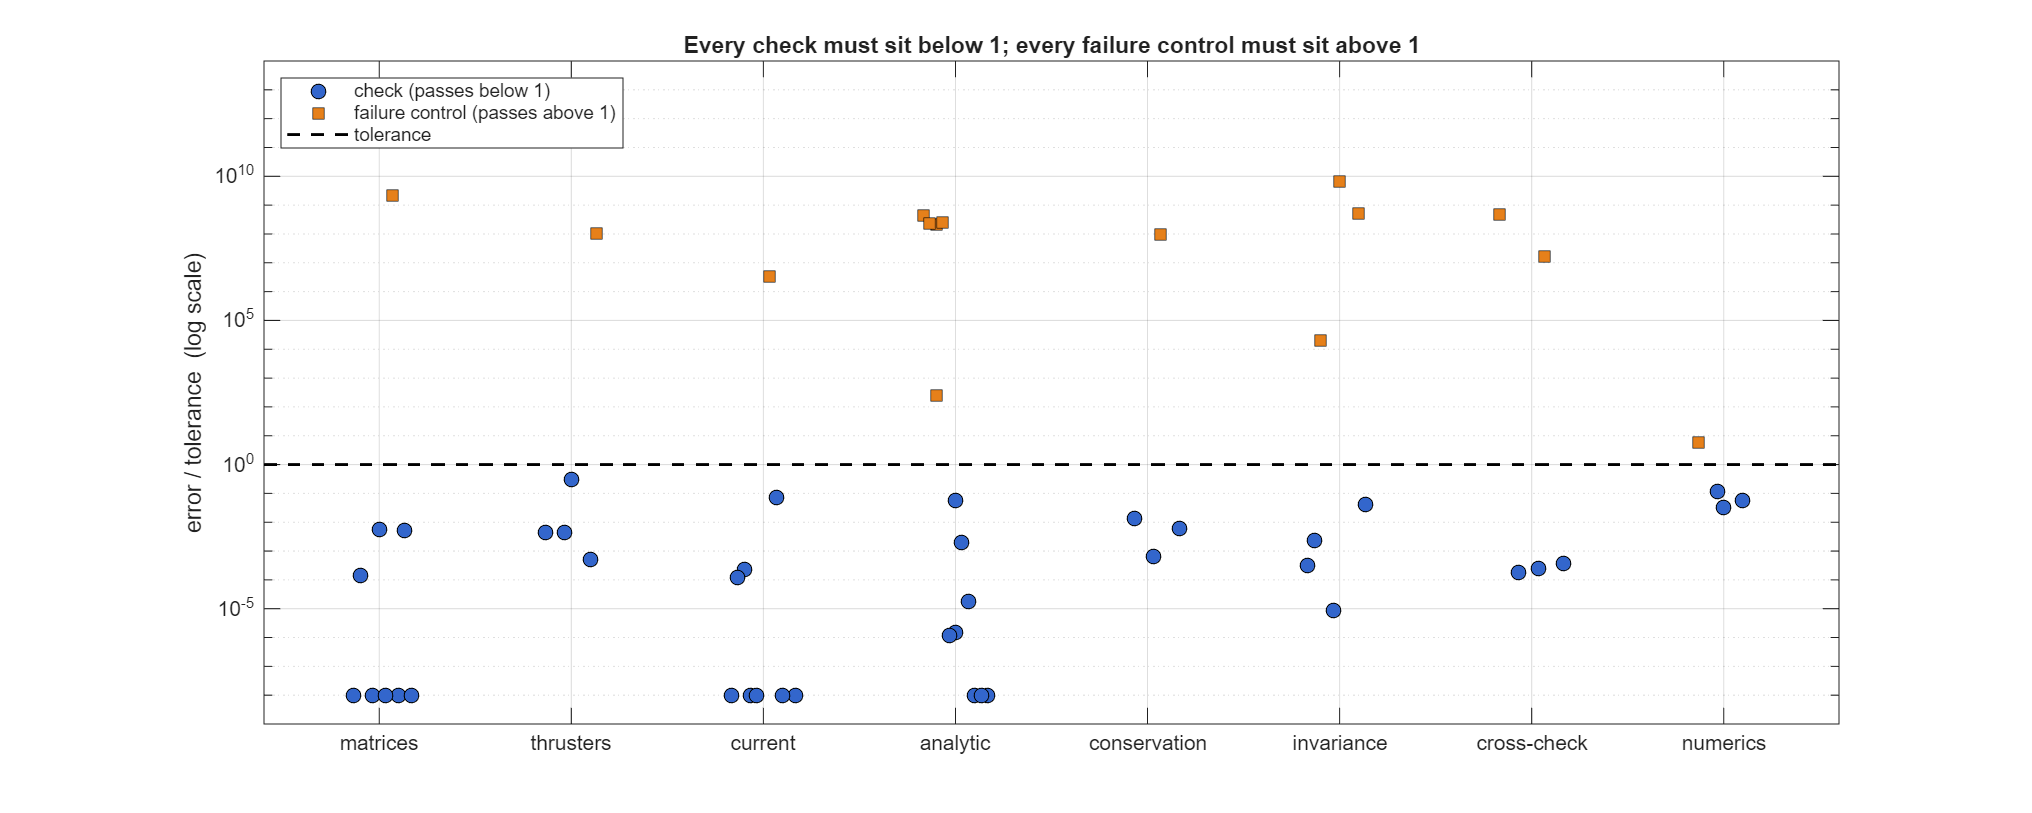
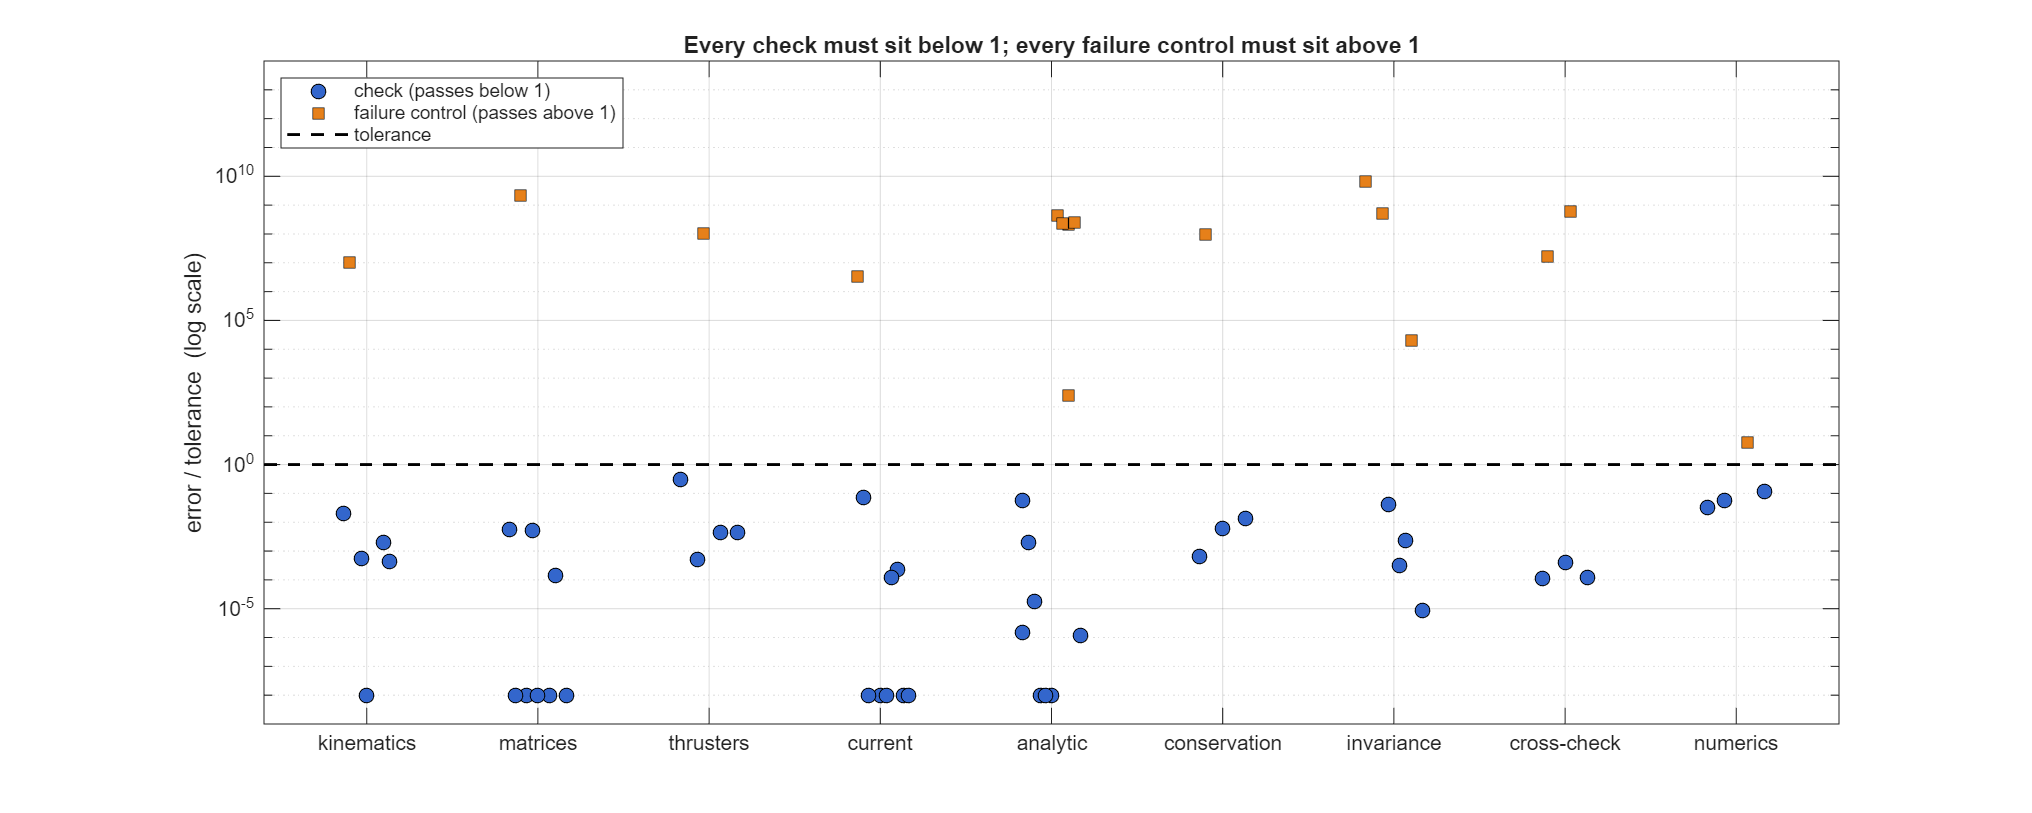
Fix cross-check test gap found by mutation check; record mutation results
The Euler restoring-force mutant escaped because the cross-check ran with B = W. It now runs with net buoyancy. Mutation result: 16 of 18 caught; the two misses are the placeholder thruster geometry and a parameter change.

diff --git a/plant_m/tests/mutation_check.py b/plant_m/tests/mutation_check.py
@@ -1,0 +1,76 @@
+"""Mutation check for plant_m: break the model on purpose in a scratch copy and see whether run_all_tests notices.
+Usage: python mutation_check.py <repo root> <out.txt>   (needs MATLAB; edit MATLAB below if installed elsewhere)
+"""
+import shutil, subprocess, sys
+from pathlib import Path
+
+repo, outp = Path(sys.argv[1]), Path(sys.argv[2])
+import tempfile; work = Path(tempfile.gettempdir()) / "plant_mutation"
+MATLAB = r"C:\Program Files\MATLAB\R2025b\bin\matlab.exe"
+
+MUT = [
+    ("baseline (no change)", None, None, None),
+    ("C_RB: sign of m S(S(w) rg) in the off-diagonal block", "model/rigid_body.m", "X = -m * skewm(v) - m * skewm(skewm(w) * rg);", "X = -m * skewm(v) + m * skewm(skewm(w) * rg);"),
+    ("C_RB: sign of the m S(S(v) rg) term", "model/rigid_body.m", "m * skewm(skewm(v) * rg) - skewm(p.Io * w)", "-m * skewm(skewm(v) * rg) - skewm(p.Io * w)"),
+    ("C_A: one block sign flipped", "model/added_mass.m", "CA = [zeros(3), -skewm(a);", "CA = [zeros(3), skewm(a);"),
+    ("dynamics: M_A nu_c_dot term removed", "model/body_dynamics.m", " - g + MA * nuc_dot);", " - g);"),
+    ("dynamics: nu_c_dot loses the -w x (R' v_c) term (the report's bug)", "model/body_dynamics.m", "[-cross(w, R' * vcn) + R' * (dvcdz * zdot); zeros(3, 1)]", "[R' * (dvcdz * zdot); zeros(3, 1)]"),
+    ("dynamics: nu_c_dot loses the depth-gradient chain-rule term", "model/body_dynamics.m", "[-cross(w, R' * vcn) + R' * (dvcdz * zdot); zeros(3, 1)]", "[-cross(w, R' * vcn); zeros(3, 1)]"),
+    ("dynamics: damping on absolute velocity, not water-relative", "model/body_dynamics.m", "- D * nur - g", "- D * nu - g"),
+    ("dynamics: C_RB applied to nu_r instead of nu", "model/body_dynamics.m", "tau(:) - CRB * nu - CA * nur", "tau(:) - CRB * nur - CA * nur"),
+    ("dynamics: C_A applied to nu instead of nu_r", "model/body_dynamics.m", "- CA * nur - D", "- CA * nu - D"),
+    ("restoring force sign flipped", "model/restoring.m", "g  = -[fg + fb;", "g  = [fg + fb;"),
+    ("quaternion kinematics: sign in T(q)", "lib/quat_T.m", "T = [-e(:)'; eta * eye(3) + skewm(e)];", "T = [-e(:)'; eta * eye(3) - skewm(e)];"),
+    ("position rate uses R' instead of R", "model/plant_rhs.m", "xd = [R * nu(1:3);", "xd = [R' * nu(1:3);"),
+    ("Ekman gradient: sign of the i k_v term", "model/current_profile.m", "dW = (-env.kd + 1i * env.kv) * (W - env.Winf);", "dW = (-env.kd - 1i * env.kv) * (W - env.Winf);"),
+    ("thruster matrix: moment is e x r instead of r x e", "model/thrust_matrix.m", "cross(p.thr.r(:, i), p.thr.e(:, i))", "cross(p.thr.e(:, i), p.thr.r(:, i))"),
+    ("no quaternion renormalisation after the step", "sim/simulate.m", "    xn(4:7) = xn(4:7) / norm(xn(4:7));\n", "\n"),
+    ("quadratic damping loses the absolute value", "model/damping.m", "p.Dq(:) .* abs(nur(:))", "p.Dq(:) .* nur(:)"),
+    ("Euler restoring force: one component sign flipped", "model/restoring_euler.m", "g = [ (W - B) * st;", "g = [-(W - B) * st;"),
+    ("added mass: surge entry too small by 10%", "config/params_plant.m", "p.A  = [5.5 12.7", "p.A  = [4.95 12.7"),
+]
+
+lines = []
+caught = tried = 0
+for label, fname, old, new in MUT:
+    if work.exists():
+        shutil.rmtree(work)
+    shutil.copytree(repo / "plant_m", work / "plant_m", ignore=shutil.ignore_patterns("results"))
+    if fname:
+        f = work / "plant_m" / fname
+        src = f.read_text(encoding="utf-8")
+        assert src.count(old) == 1, f"pattern not unique ({src.count(old)}): {label}"
+        f.write_text(src.replace(old, new), encoding="utf-8")
+    cfg = (work / "plant_m" / "config").as_posix()
+    try:
+        r = subprocess.run([MATLAB, "-batch", f"addpath('{cfg}'); setup_plant_paths; run_all_tests;"],
+                           capture_output=True, text=True, timeout=600)
+        out, err_tail = r.stdout.splitlines(), r.stderr[-300:]
+    except subprocess.TimeoutExpired:
+        out, err_tail = [], "TIMEOUT after 600 s"
+        subprocess.run(["taskkill", "/F", "/IM", "MATLAB.exe"], capture_output=True)
+    fails, suite = [], None
+    for l in out:
+        if l.startswith("test_"):
+            suite = l.strip()
+        if l.lstrip().startswith("FAIL"):
+            fails.append(f"{suite}: {l.strip()[5:].split('  err')[0].strip()}")
+    summ = [l for l in out if l.startswith("checks passed")]
+    if fname:
+        tried += 1
+        caught += bool(fails)
+        verdict = "CAUGHT" if fails else "MISSED"
+    else:
+        verdict = "BASELINE OK" if not fails else "BASELINE FAILS"
+    lines.append(f"{verdict} | {label}")
+    for l in fails[:4]:
+        lines.append("         " + l[:170])
+    if not out:
+        lines.append("         (no output) " + err_tail)
+    outp.write_text("\n".join(lines) + "\n", encoding="utf-8")
+    print(lines[-1 - min(len(fails), 4) if fails else -1], flush=True)
+
+lines.append(f"\nMutation: {caught} caught of {tried} tried")
+outp.write_text("\n".join(lines) + "\n", encoding="utf-8")
+print(lines[-1], flush=True)
+

diff --git a/plant_m/tests/test_cross_check.m b/plant_m/tests/test_cross_check.m
@@ -4,6 +4,7 @@ function r = test_cross_check(p)
 % rotation matrix, the kinematic matrix and the restoring force, which is what this checks.
 S = 'cross-check'; r = new_results();
 pe = p;
+pe.B = pe.W + 2;                       % net positive buoyancy (Wu: B 114.8 N vs W 112.8 N) so the (W - B) terms act
 pe.env = struct('preset', 'ekman', 'Winf', 0.05 + 0.02i, 'W0', 0.25 * exp(1i * 0.3), 'kd', 0.15, 'kv', 0.15);
 tau = @(t) [6; 1.5 * sin(0.6 * t); 2 * sin(0.4 * t); 0.8 * sin(0.9 * t); 0.6 * sin(0.5 * t); 1.2 * sin(0.7 * t) + 0.3];
 dt = 0.002; T = 20;
